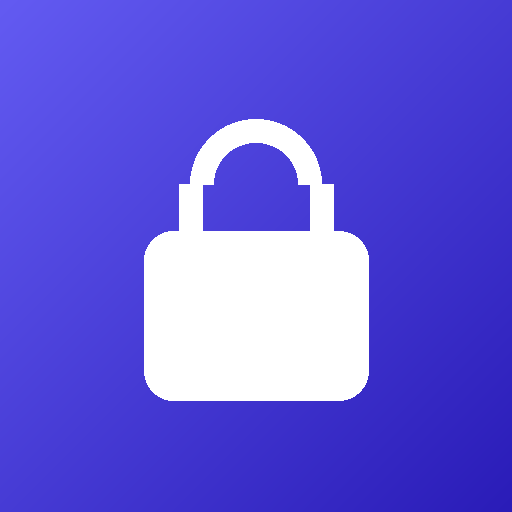
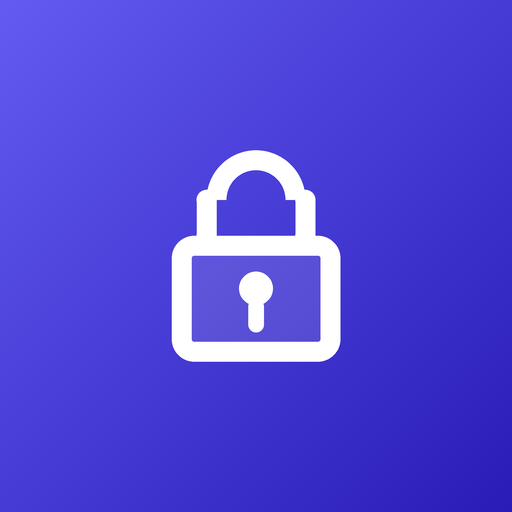
Icono con el candado mas pequeño y centrado; splash de Android propio (era el de Uninstaller) (v2026.09.20.02)

Changed region(s): [[0.2812, 0.2188, 0.7188, 0.7812]]

diff --git a/CHANGELOG.md b/CHANGELOG.md
@@ -2,6 +2,15 @@
 
 Todas las versiones siguen el esquema de fecha `AAAA.MM.DD.NN` (constitución 11).
 
+## 2026.09.20.02 — Icono con el candado más pequeño y splash propio
+
+`versionCode`: 2026092002 · Windows `2026.9.20.2`
+
+- El candado del icono es más pequeño y está centrado (icono adaptativo de Android, icono de
+  Windows, tienda y extensión, todos del mismo dibujo).
+- La pantalla de arranque de Android enseñaba la papelera de Uninstaller (quedó del proyecto del
+  que se partió); ahora es el candado.
+
 ## 2026.09.20.01 — Autocompletar de Android probado y con el nombre de la app
 
 `versionCode`: 2026092001 · Windows `2026.9.20.1`
